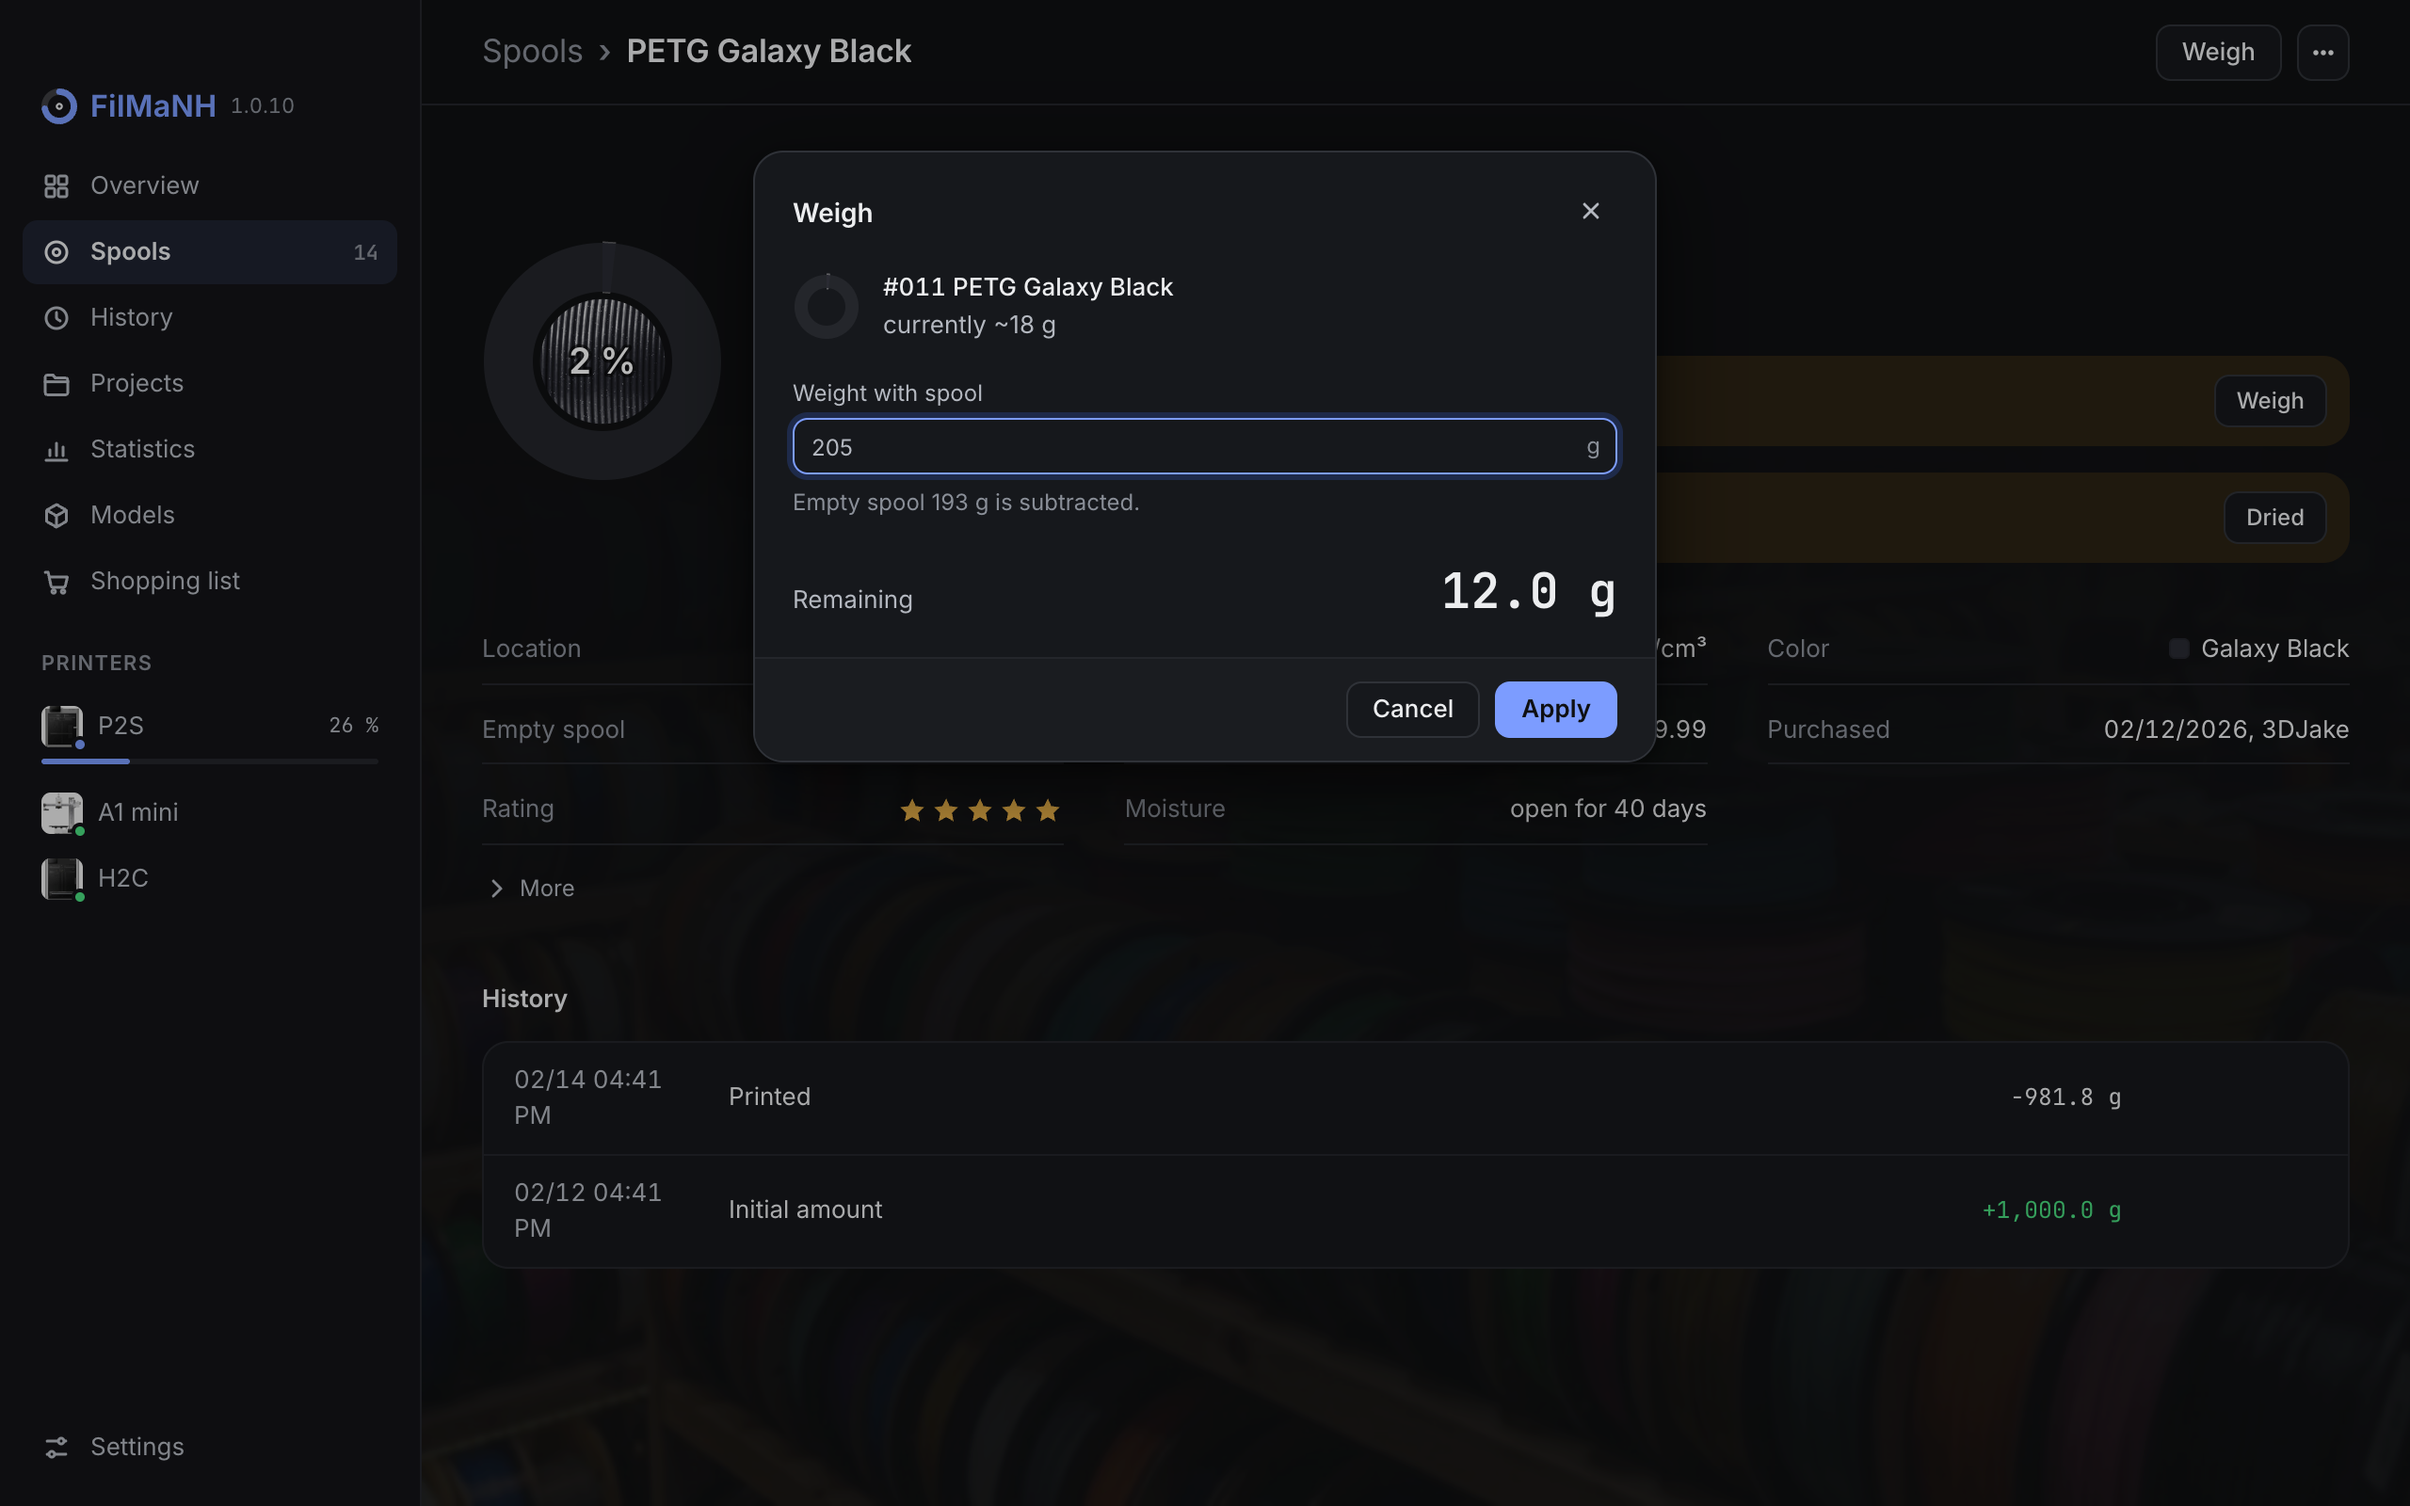
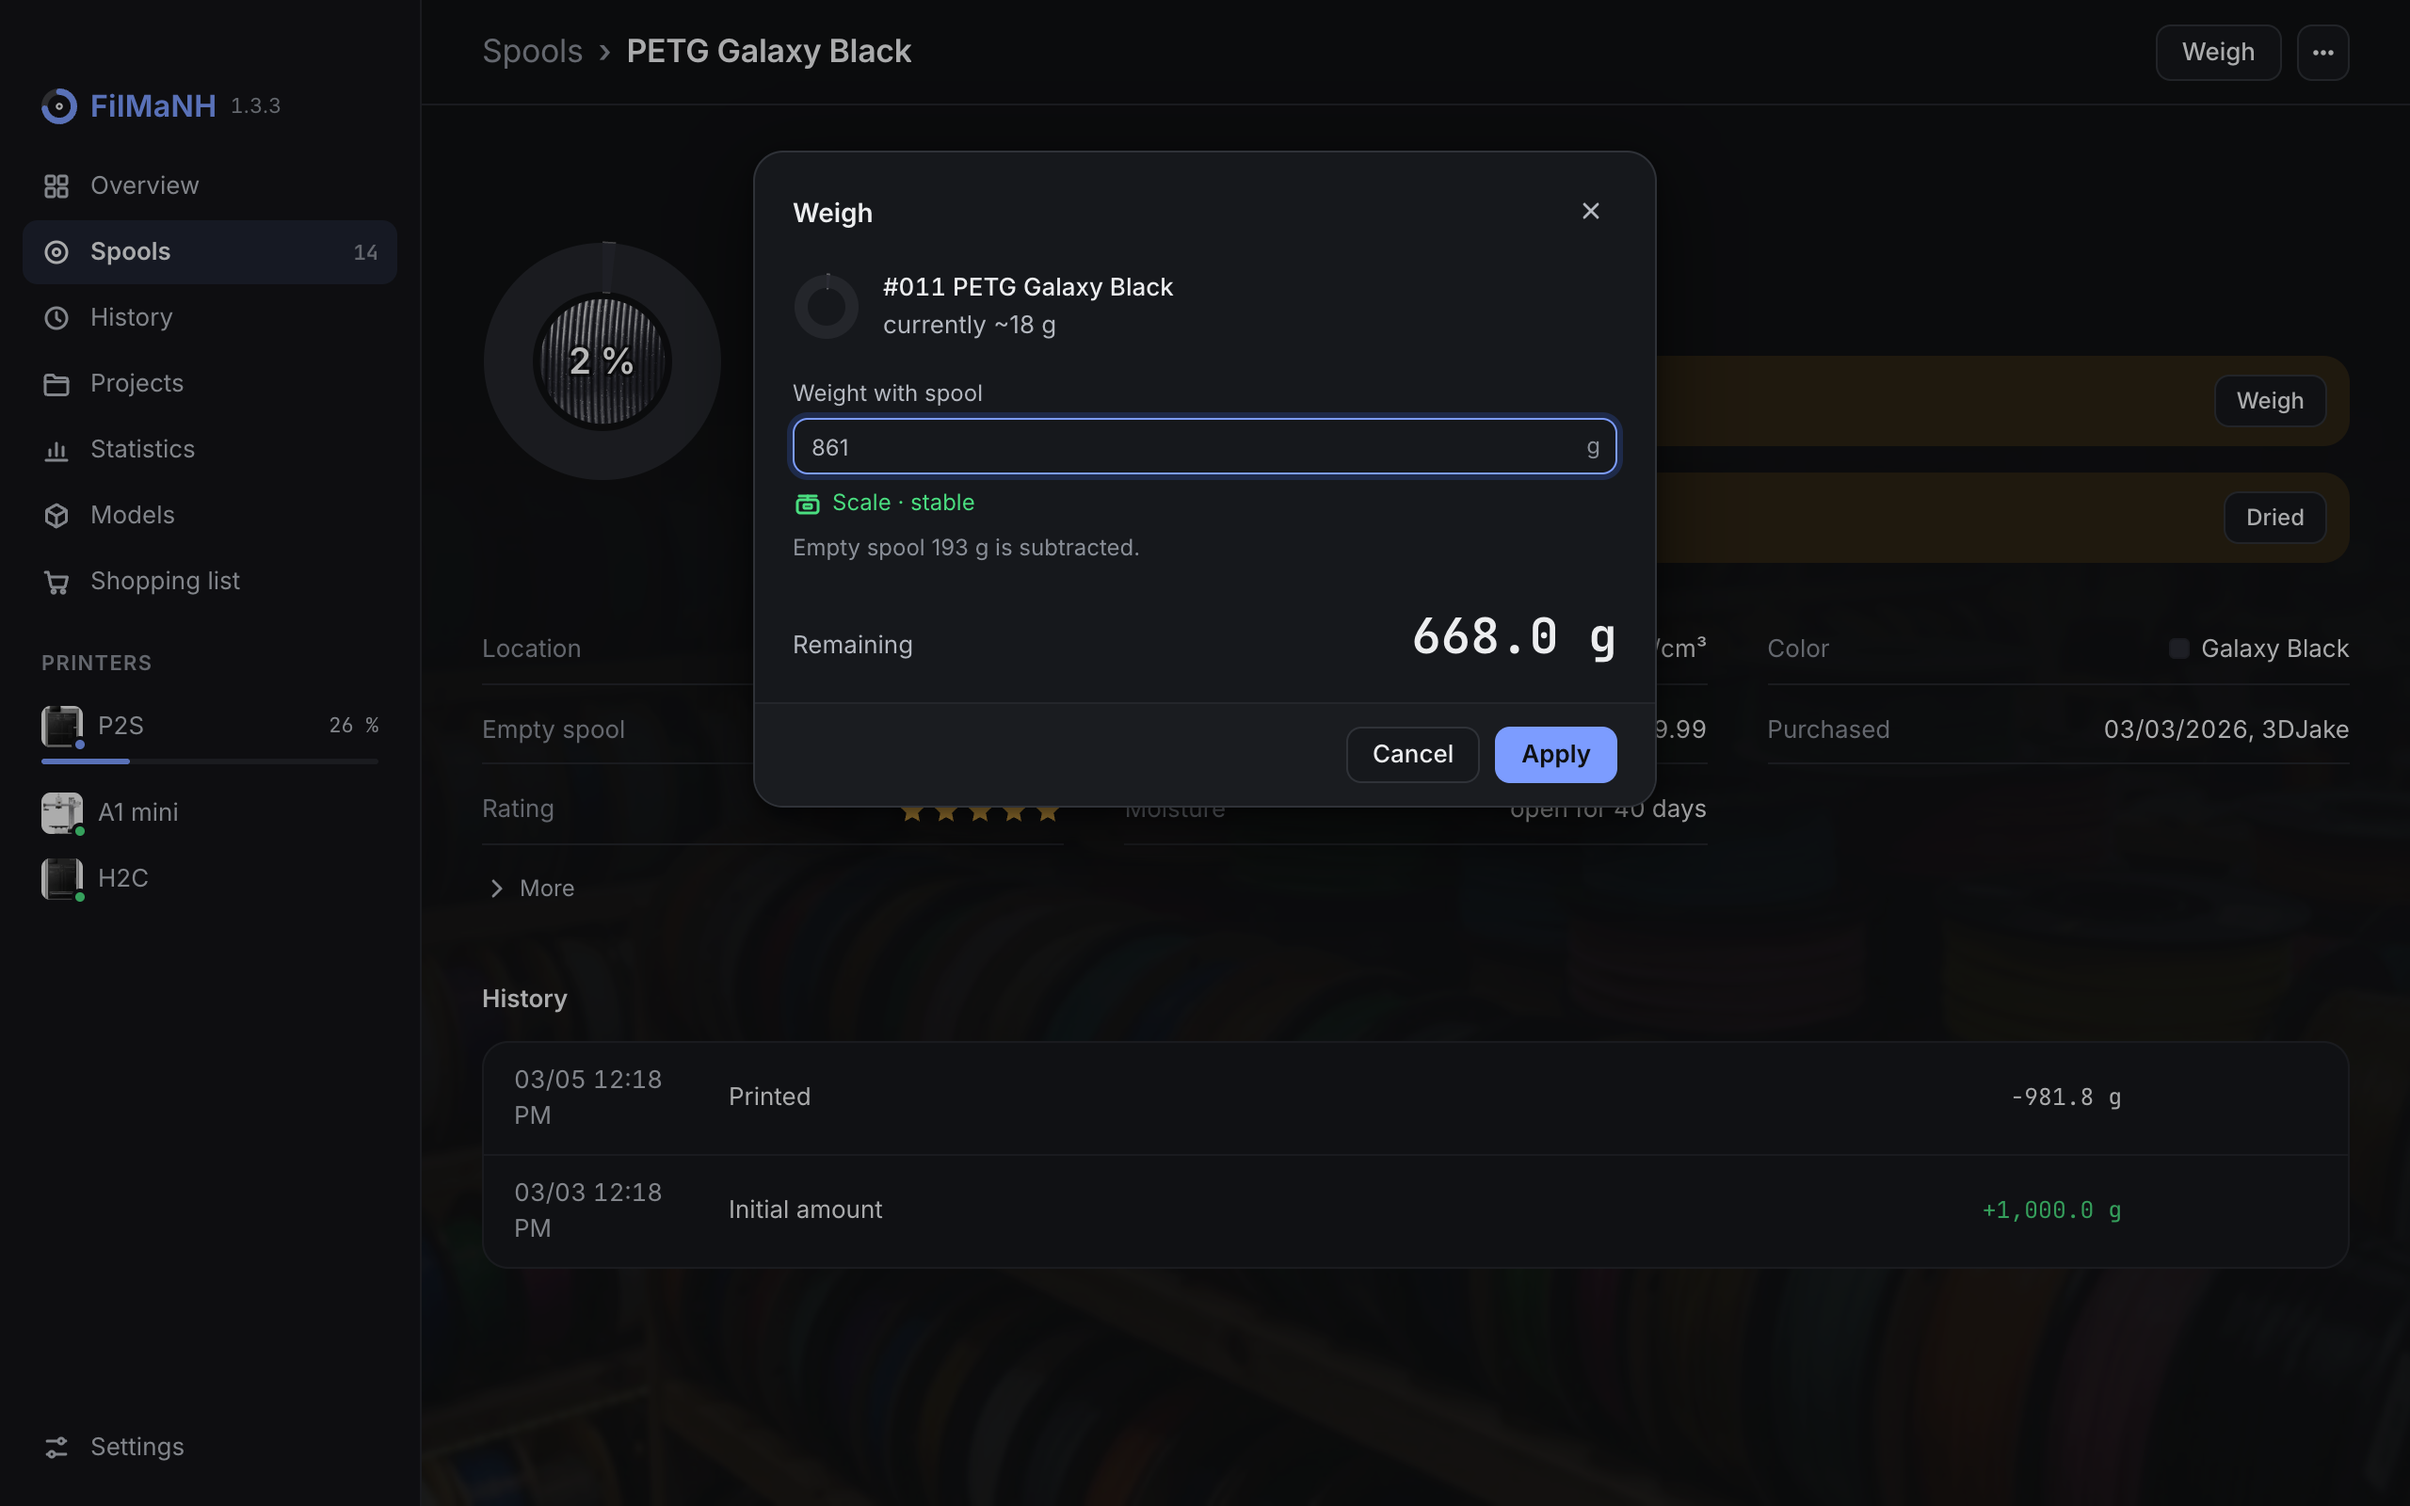
Handbuch: USB-Waage beim Wiegen und bei Neue Spule

diff --git a/handbook/README.md b/handbook/README.md
@@ -134,6 +134,9 @@ Your own filament presets from Bambu Studio are in the catalog too.
 Under **More details**: net weight, **Remaining now** (for a spool that is already in use; empty means full), empty
 spool, VAT, purchase date, shop, batch and EAN.
 
+With a scale connected, the scale button next to **Remaining now** and **Empty spool** takes the weight; for
+**Remaining now** FilMaNH subtracts the empty spool weight.
+
 ![Choose a colour](images/04c-farbe.png)
 
 The **Color** then comes from more than 80 filament colours, sorted by **Standard**, **Matte**, **Silk**, **Galaxy**,
@@ -196,6 +199,12 @@ Weigh the spool including the reel and enter the weight. FilMaNH subtracts the e
 the rest. This needs the empty spool weight – if it is missing, enter it under **Edit** at **Empty spool**. If the
 result differs clearly from the calculated amount, FilMaNH tells you (is a print missing? is the empty spool weight
 right?).
+
+**With a USB scale:** If a scale is connected to the computer (e.g. Dymo M5), FilMaNH fills in its weight itself.
+Below it you see **Scale · stable** or **Scale · settling**; **Apply** only works once the value is stable. Typing
+yourself takes precedence, **Use the scale reading** switches back. Dymo scales turn themselves off after 3 minutes;
+then it says **Scale off – press the button on the scale**. There is nothing to set up; FilMaNH always works in grams,
+even if the scale shows ounces. On Windows this has not been tested with a real scale yet.
 
 **Correct remaining** sets the remaining amount directly, optionally with a reason.
 

diff --git a/handbuch/README.md b/handbuch/README.md
@@ -134,6 +134,9 @@ Auch deine eigenen Filamentprofile aus Bambu Studio stehen im Katalog.
 Unter **Weitere Angaben**: Füllung, **Rest jetzt** (für eine schon angebrochene Spule; leer heißt voll), leere Spule,
 MwSt, Kaufdatum, Händler, Charge und EAN.
 
+Mit angeschlossener Waage übernimmt der Waagen-Knopf neben **Rest jetzt** und **Leere Spule** das Gewicht; bei **Rest
+jetzt** zieht FilMaNH das Leergewicht ab.
+
 ![Farbe wählen](bilder/04c-farbe.png)
 
 Die **Farbe** kommt dann aus über 80 Filamentfarben, sortiert nach **Standard**, **Matt**, **Seide**, **Galaxy**,
@@ -195,6 +198,12 @@ dem neuen Preis rechnen**.
 Spule samt Rolle wiegen und das Gewicht eintragen. FilMaNH zieht das Leergewicht ab und übernimmt den Rest. Ohne
 Leergewicht geht das nicht – dann unter **Bearbeiten** bei **Leere Spule** eintragen. Weicht das Ergebnis deutlich
 vom gerechneten Rest ab, sagt FilMaNH das (fehlt ein Druck? stimmt das Leergewicht?).
+
+**Mit USB-Waage:** Steckt eine Waage am Rechner (z. B. Dymo M5), trägt FilMaNH ihr Gewicht selbst ein. Darunter steht
+**Waage · steht** oder **Waage · schwankt**; **Übernehmen** geht erst, wenn der Wert steht. Selbst Getipptes hat
+Vorrang, **Wert der Waage übernehmen** schaltet zurück. Die Dymo-Waagen schalten sich nach 3 Minuten ab, dann steht
+dort **Waage aus – Taste an der Waage drücken**. Einzurichten ist nichts; FilMaNH rechnet immer in Gramm, auch wenn
+die Waage Unzen zeigt. Unter Windows ist das noch nicht mit einer echten Waage geprüft.
 
 **Rest korrigieren** setzt den Rest direkt, auf Wunsch mit Grund.
 
